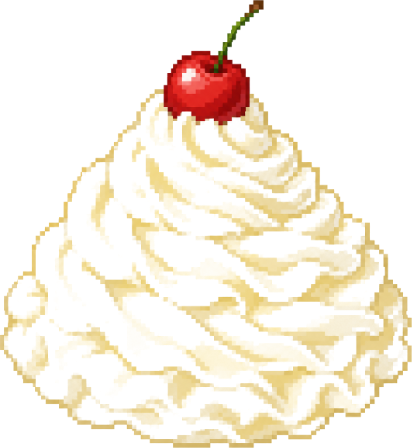
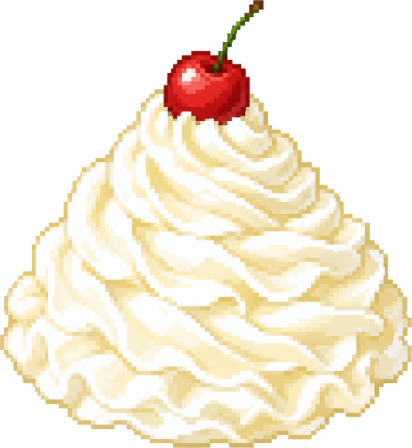
生クリームが透けていたのを直した
生クリームの素材は白背景の上に白いハイライトを持つため、背景の塗りつぶし
探索がそこから内側へ漏れ、中身がスカスカのまま透過していた。

素材の画素を一度太らせて輪郭を閉じ、閉じた内側を素材として塗り直してから
太らせた分を戻す処理（solid 指定）を変換ツールに追加し、
whip_small / whip_cherry に適用した。不透明率は16%→58%、28%→66%。

Changed region(s): [[0.0291, 0.25, 0.932, 1.0], [0.932, 0.6562, 0.9903, 0.8438], [0.0, 0.75, 0.0291, 0.7812]]

diff --git a/tools/make-assets.js b/tools/make-assets.js
@@ -46,7 +46,8 @@ async function main() {
       far: item.far || 74,     // これ以上の色差は素材（探索を止める）
       erode: item.erode || 0,  // 元画像のふちの光（ハロー）を削る画素数
       colorkey: item.colorkey || null, // 指定色を全面的に抜く（ガラスのように中も透かしたいもの）
-      rotate: item.rotate || 0        // 180 を指定すると上下逆さに焼き込む
+      rotate: item.rotate || 0,       // 180 を指定すると上下逆さに焼き込む
+      solid: item.solid || 0          // 白い素材が白背景に食われるときの穴埋め幅（画素）
     });
 
     const outPath = path.join(OUT, item.name + '.png');
@@ -58,7 +59,7 @@ async function main() {
 }
 
 /* ---- ブラウザ内で動く処理本体 ---- */
-async function processImage({ uri, keepBg, maxSide, near, far, erode, colorkey, rotate }) {
+async function processImage({ uri, keepBg, maxSide, near, far, erode, colorkey, rotate, solid }) {
   const img = new Image();
   img.src = uri;
   await img.decode();
@@ -151,6 +152,74 @@ async function processImage({ uri, keepBg, maxSide, near, far, erode, colorkey, 
       d[i + 3] = v <= NEAR ? 0 : Math.round(((v - NEAR) / (FAR - NEAR)) * 255); // 境界はやわらかく
       const x = p % W, y = (p - (p % W)) / W;
       push(x + 1, y); push(x - 1, y); push(x, y + 1); push(x, y - 1);
+    }
+
+    // --- 2.4 白い素材が白背景に食われた分を埋め戻す ---
+    // 素材の中に背景と同じ色（真っ白なハイライトなど）があると、そこから塗りつぶしが
+    // 中へ漏れてスカスカになる。確実に素材の画素を太らせて輪郭を閉じ、
+    // 閉じた輪郭の内側を「素材」として塗り直したうえで、太らせた分を元に戻す。
+    if (solid) {
+      const K = solid;
+      const strong = new Uint8Array(W * H);
+      for (let p = 0; p < W * H; p++) if (dist(p * 4) >= FAR) strong[p] = 1;
+
+      const grow = (src, times) => {
+        let cur = src;
+        for (let t = 0; t < times; t++) {
+          const next = new Uint8Array(cur);
+          for (let y = 0; y < H; y++) {
+            for (let x = 0; x < W; x++) {
+              const p = y * W + x;
+              if (cur[p]) continue;
+              if ((x > 0 && cur[p - 1]) || (x < W - 1 && cur[p + 1]) ||
+                  (y > 0 && cur[p - W]) || (y < H - 1 && cur[p + W])) next[p] = 1;
+            }
+          }
+          cur = next;
+        }
+        return cur;
+      };
+      const shrink = (src, times) => {
+        let cur = src;
+        for (let t = 0; t < times; t++) {
+          const next = new Uint8Array(cur);
+          for (let y = 0; y < H; y++) {
+            for (let x = 0; x < W; x++) {
+              const p = y * W + x;
+              if (!cur[p]) continue;
+              if ((x > 0 && !cur[p - 1]) || (x < W - 1 && !cur[p + 1]) ||
+                  (y > 0 && !cur[p - W]) || (y < H - 1 && !cur[p + W])) next[p] = 0;
+            }
+          }
+          cur = next;
+        }
+        return cur;
+      };
+
+      // 太らせた素材の外側だけを外周からたどる（内側の穴は残る＝素材とみなす）
+      const fat = grow(strong, K);
+      const outside = new Uint8Array(W * H);
+      const st = [];
+      const seed = (x, y) => {
+        const p = y * W + x;
+        if (fat[p] || outside[p]) return;
+        outside[p] = 1; st.push(p);
+      };
+      for (let x = 0; x < W; x++) { seed(x, 0); seed(x, H - 1); }
+      for (let y = 0; y < H; y++) { seed(0, y); seed(W - 1, y); }
+      while (st.length) {
+        const p = st.pop();
+        const x = p % W, y = (p - (p % W)) / W;
+        if (x > 0) seed(x - 1, y);
+        if (x < W - 1) seed(x + 1, y);
+        if (y > 0) seed(x, y - 1);
+        if (y < H - 1) seed(x, y + 1);
+      }
+      let filled = new Uint8Array(W * H);
+      for (let p = 0; p < W * H; p++) filled[p] = outside[p] ? 0 : 1;
+      filled = shrink(filled, K);            // 太らせた分を戻す
+
+      for (let p = 0; p < W * H; p++) if (filled[p]) d[p * 4 + 3] = 255;
     }
 
     // --- 2.5 ふちを削る（元画像が持っている光のにじみを落とす） ---
